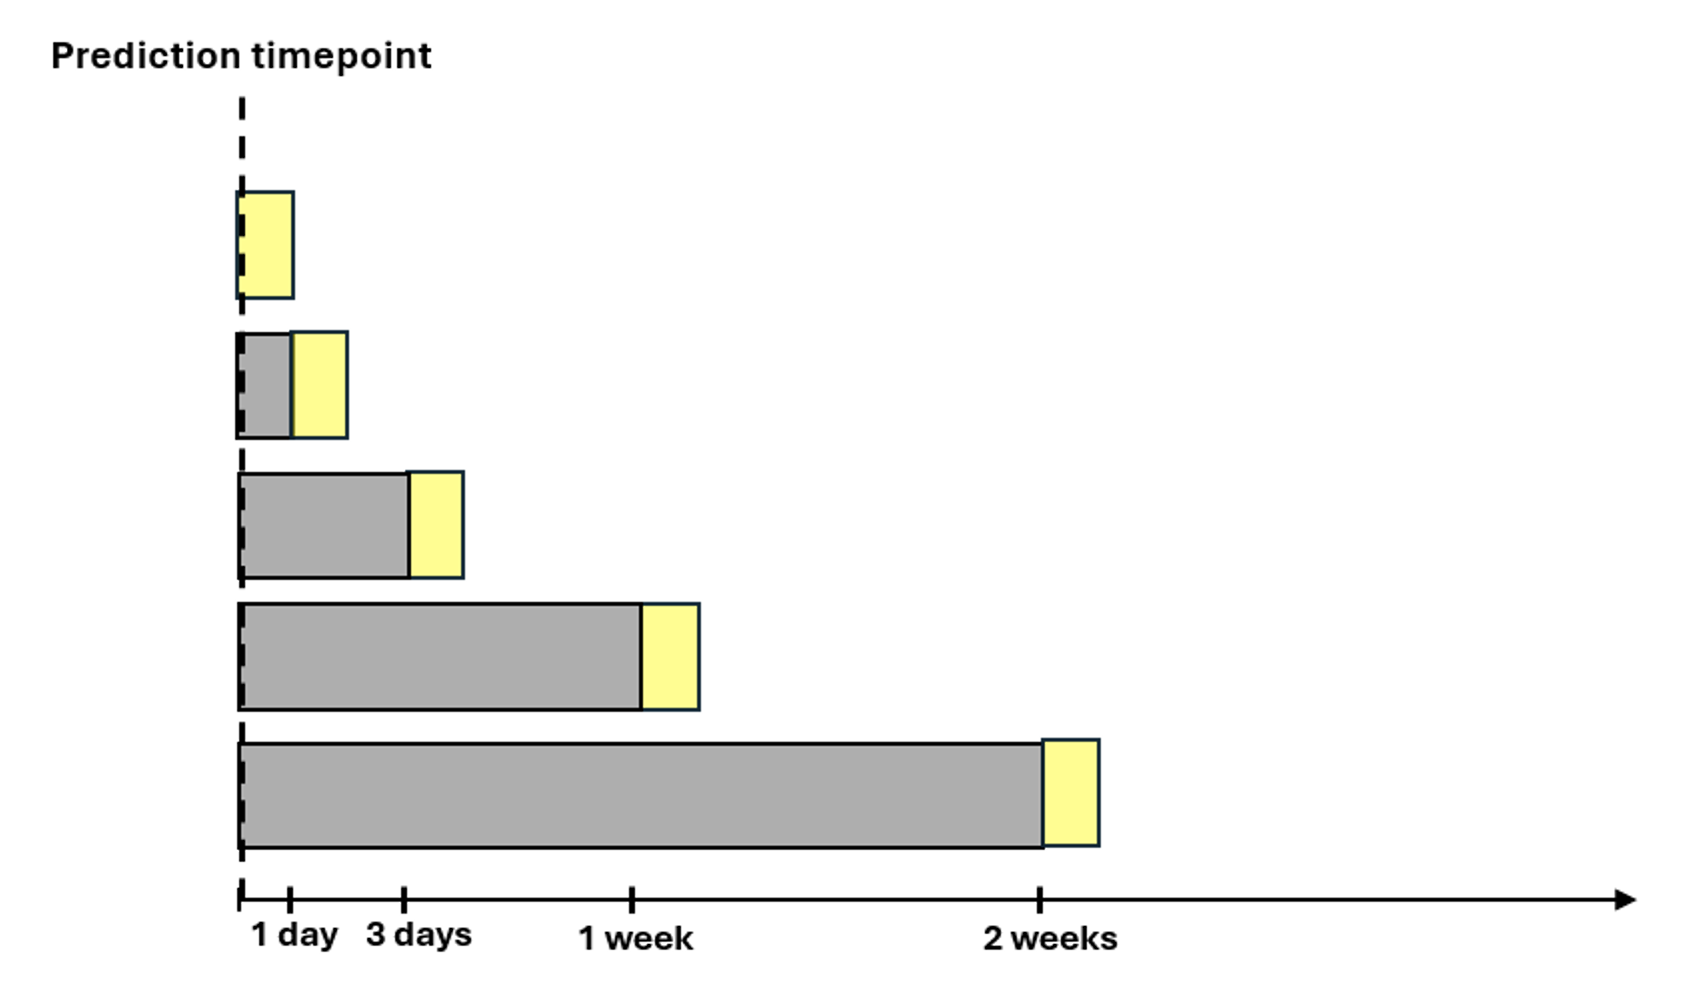
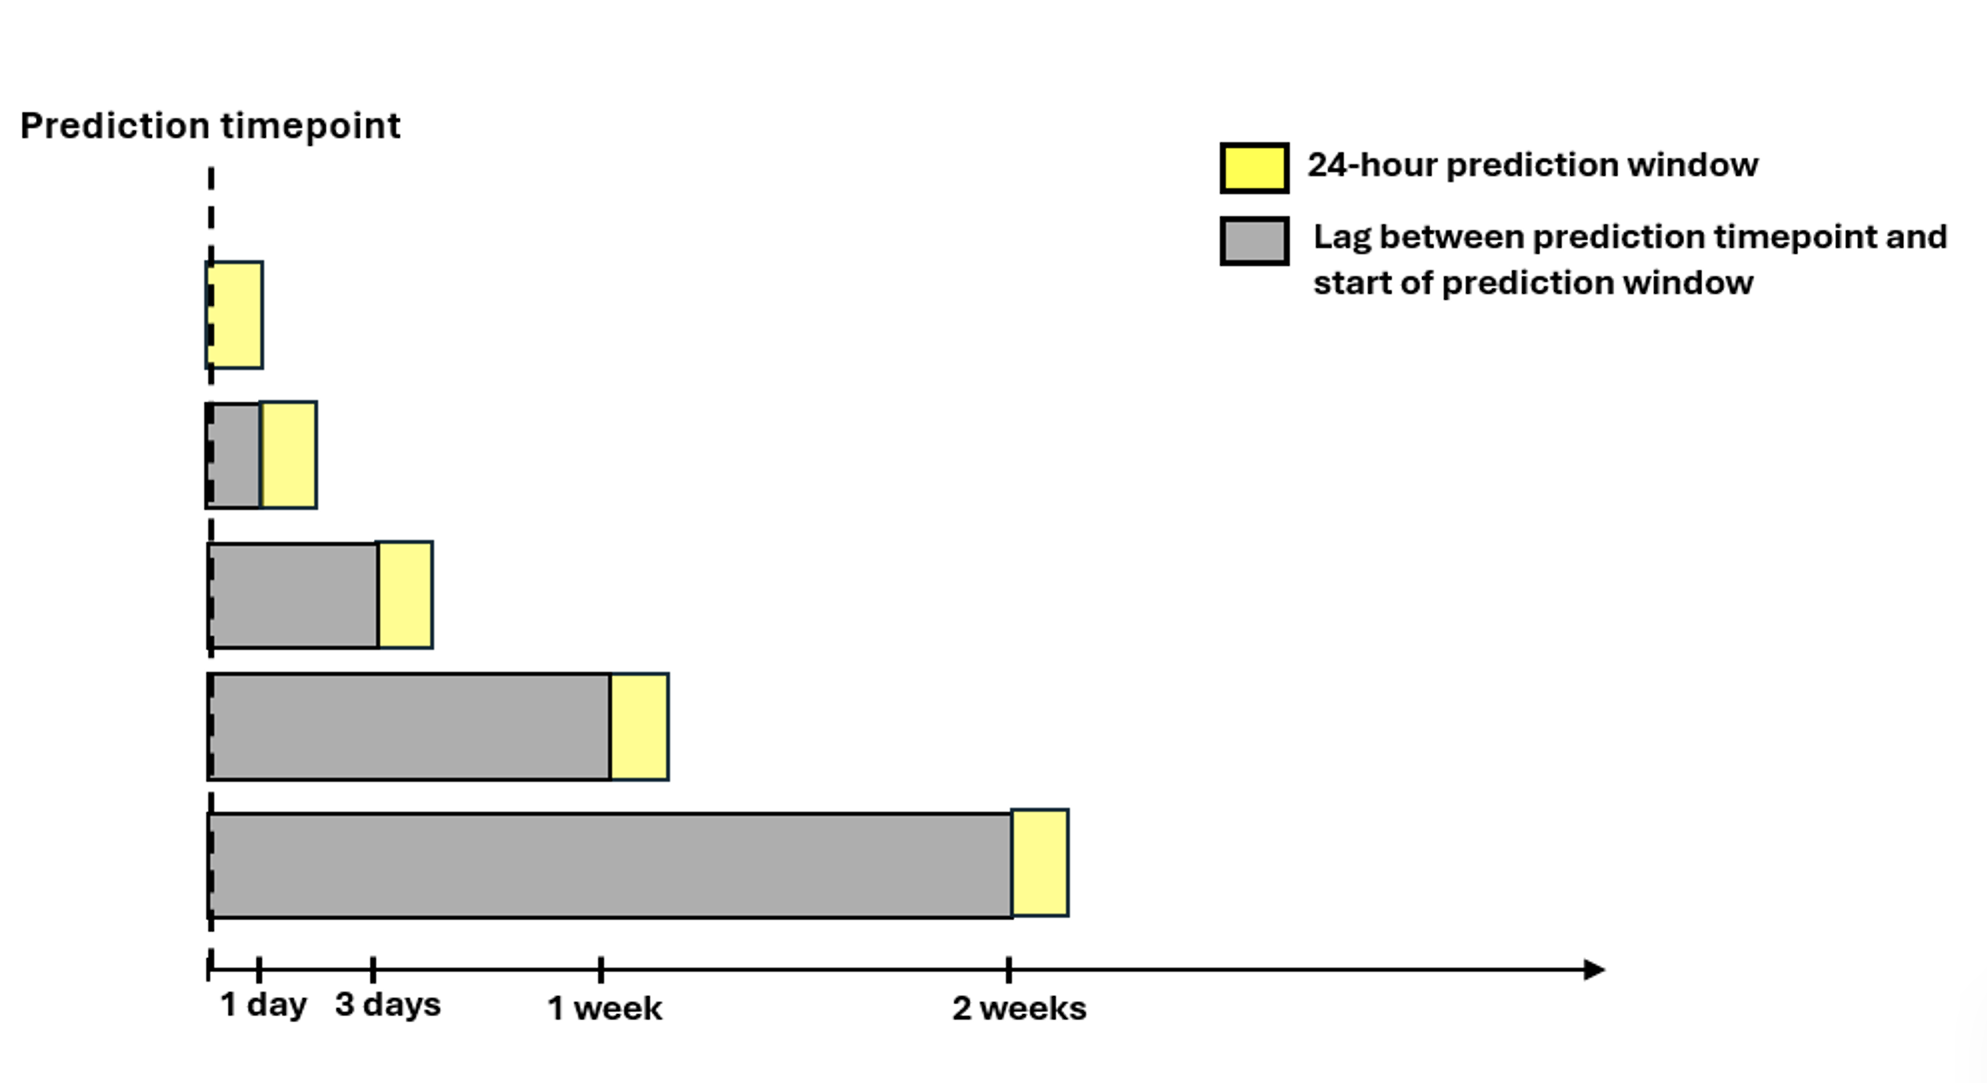
updated figure

diff --git a/dissertation_defense_2026_0409.html b/dissertation_defense_2026_0409.html
@@ -198,7 +198,7 @@ Kendra Wyant
 </section>
 <section id="section" class="slide level2">
 <h2></h2>
-<p><img data-src="https://github.com/KendraPaquette/presentations/blob/main/images/diabetes_2.png?raw=true" class="absolute" style="left: 200px; height: 80%; "></p>
+<p><img data-src="https://github.com/KendraPaquette/presentations/blob/main/images/diabetes_2.png?raw=true" class="absolute" style="top: 100px; left: 200px; height: 80%; "></p>
 <aside class="notes">
 <p>Our treatment for substance use disorders stands in stark contrast to how we treat other chronic conditions.</p>
 <p>When someone has diabetes, we would never expect a brief episode of care to be sufficient; instead, we rely on ongoing monitoring, adherence to treatment, regular clinical follow-up, and healthy lifestyle choices to manage risk over time.</p>
@@ -1018,19 +1018,7 @@ Kendra Wyant
 </section>
 <section id="lagged-predictions" class="slide level2">
 <h2>Lagged Predictions</h2>
-<div class="quarto-figure quarto-figure-center">
-<figure>
-<p><img data-src="https://github.com/KendraPaquette/presentations/blob/main/images/methods_figure_no_lag.jpg?raw=true" class="quarto-figure quarto-figure-center"></p>
-</figure>
-</div>
-</section>
-<section id="lagged-predictions-1" class="slide level2">
-<h2>Lagged Predictions</h2>
-<div class="quarto-figure quarto-figure-center">
-<figure>
-<p><img data-src="https://github.com/KendraPaquette/presentations/blob/main/images/methods_figure.jpg?raw=true" class="quarto-figure quarto-figure-center"></p>
-</figure>
-</div>
+<p><img data-src="https://github.com/KendraPaquette/presentations/blob/main/images/lag.png?raw=true" class="absolute" style="top: 100px; right: 200px; height: 80%; "></p>
 </section>
 <section id="performance-3" class="slide level2">
 <h2>Performance</h2>
